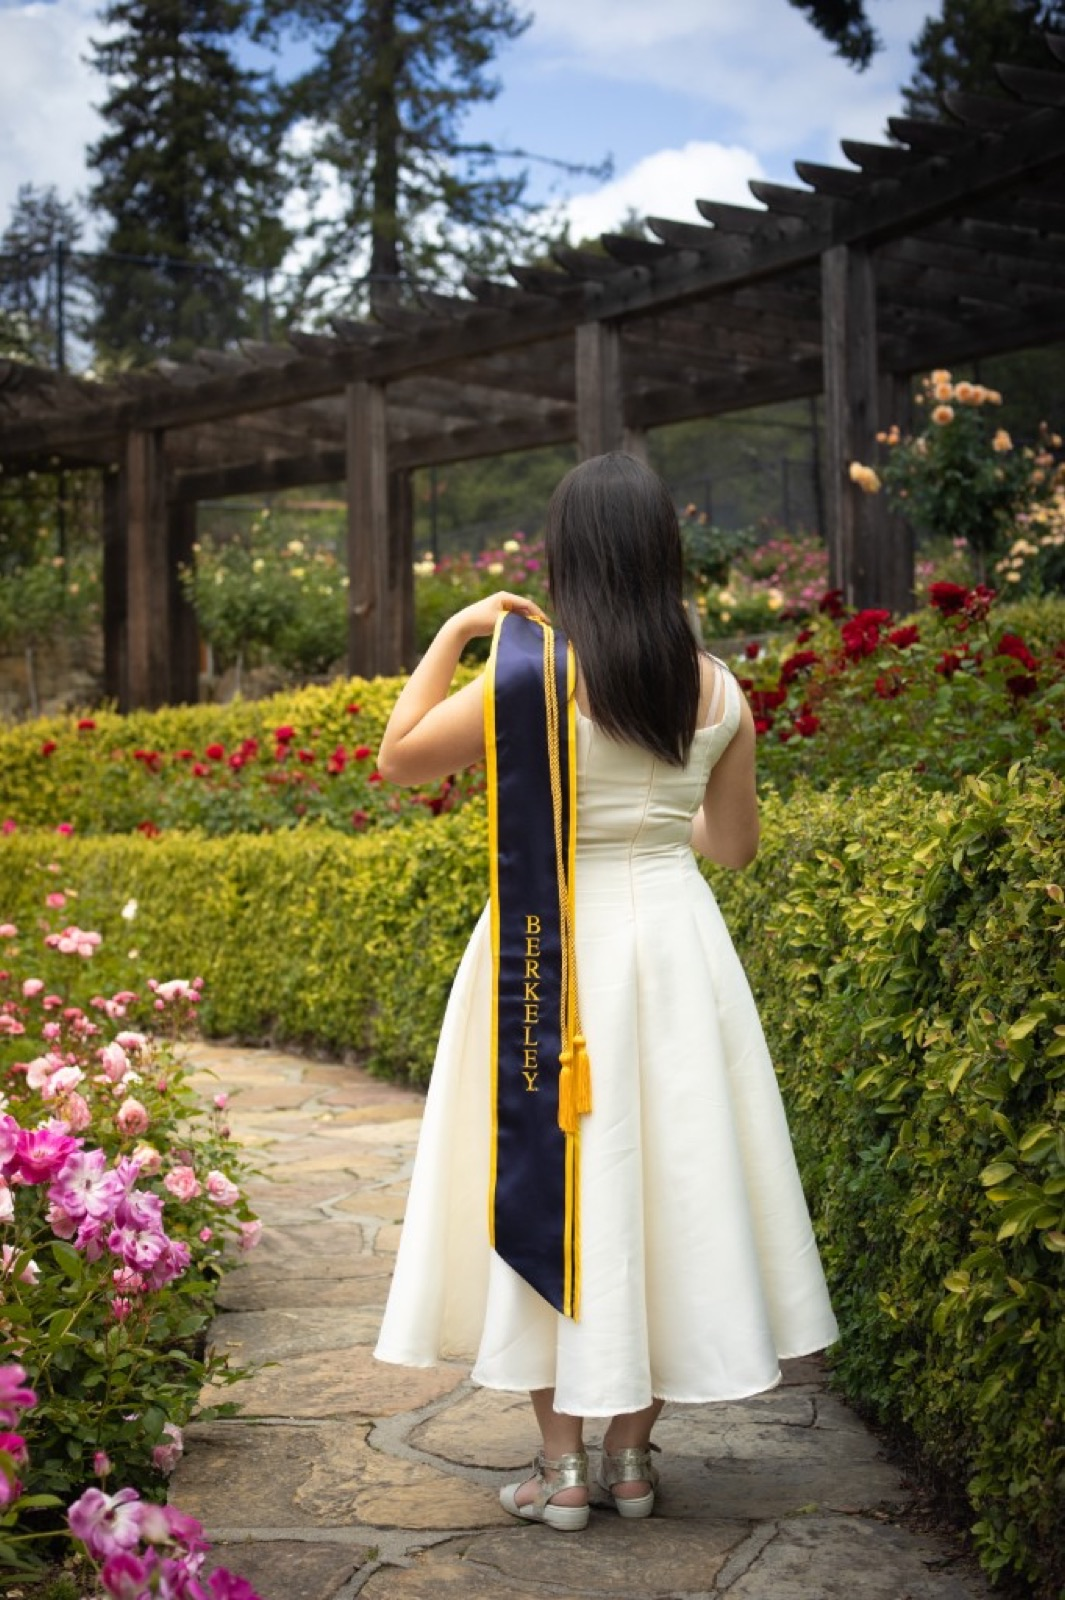
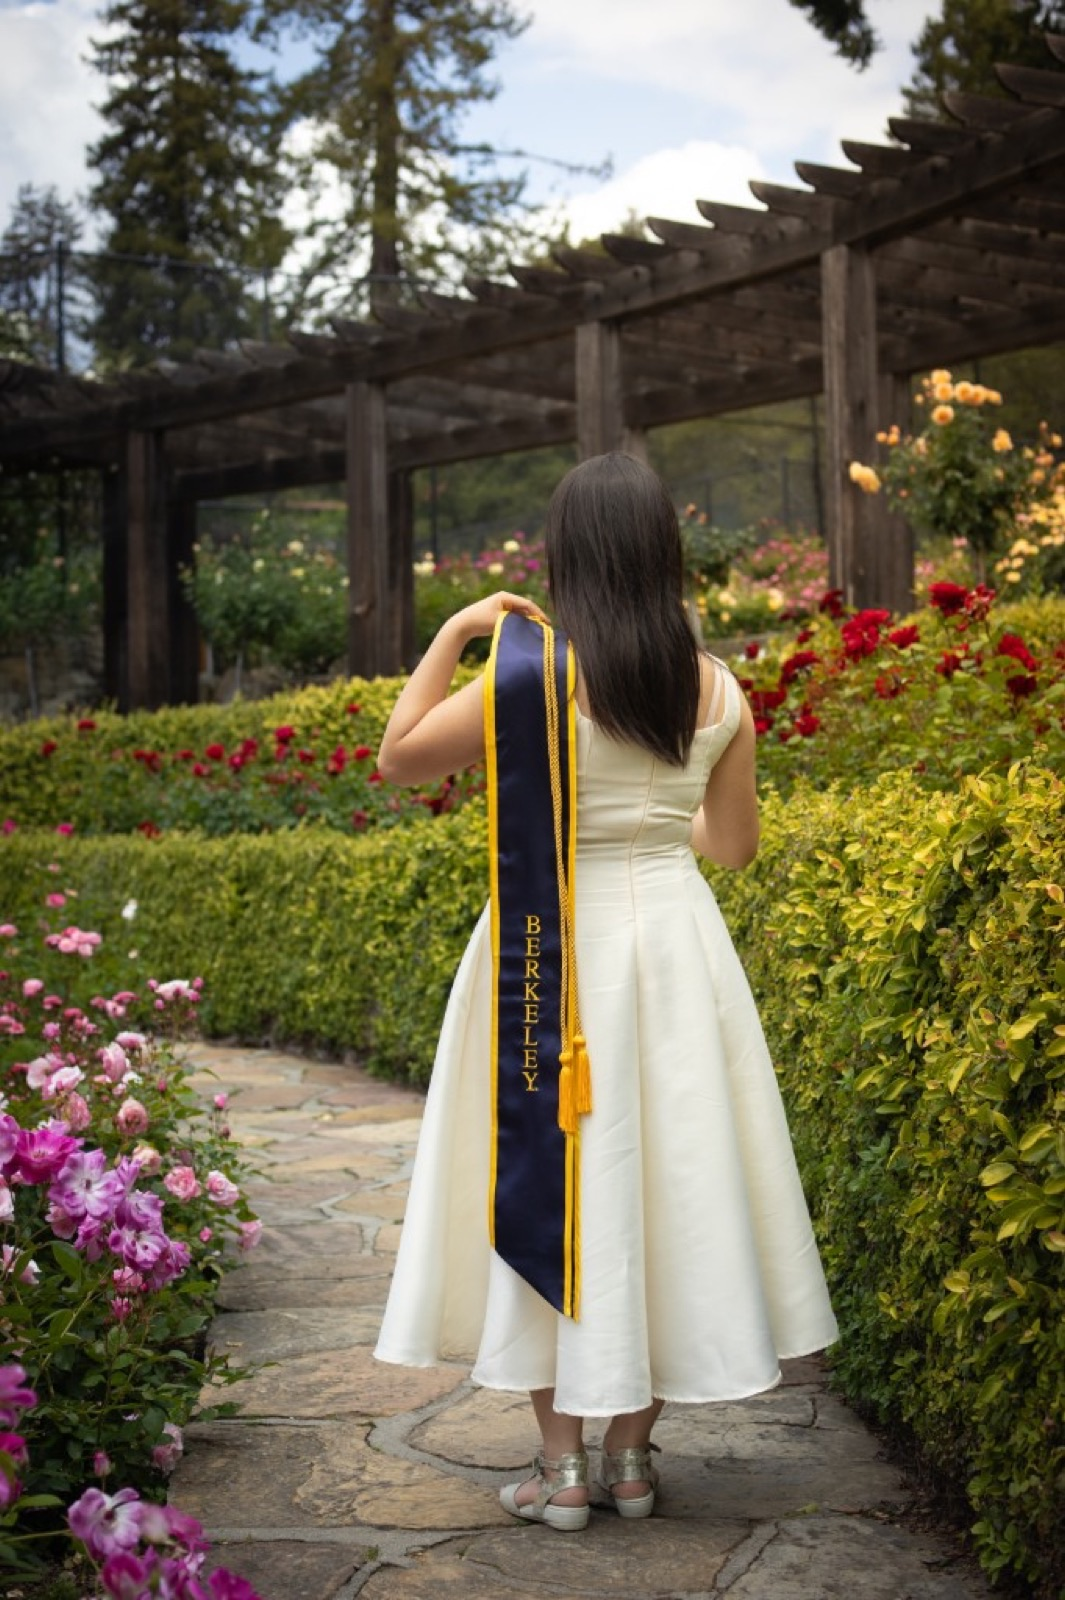
updated photos again

diff --git a/src/data/galleries.js b/src/data/galleries.js
@@ -42,6 +42,12 @@ export const portraitImages = [
     theme: 'bright',
   },
   {
+    src: '/images/portraits/IMG_1995.jpg',
+    alt: 'Grad portrait on rose garden stone path',
+    session: 'grad',
+    theme: 'bright',
+  },
+  {
     src: '/images/portraits/IMG_3853.jpg',
     alt: 'Graduate in cap and gown on campus',
     session: 'grad',
